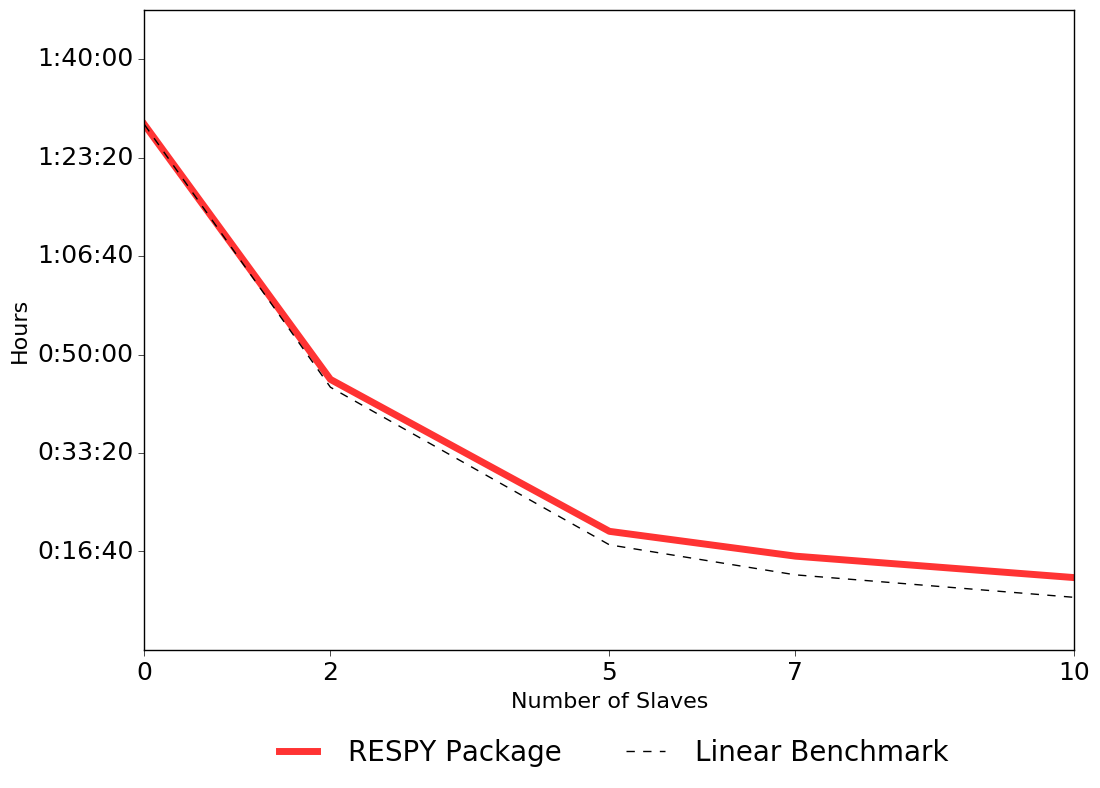
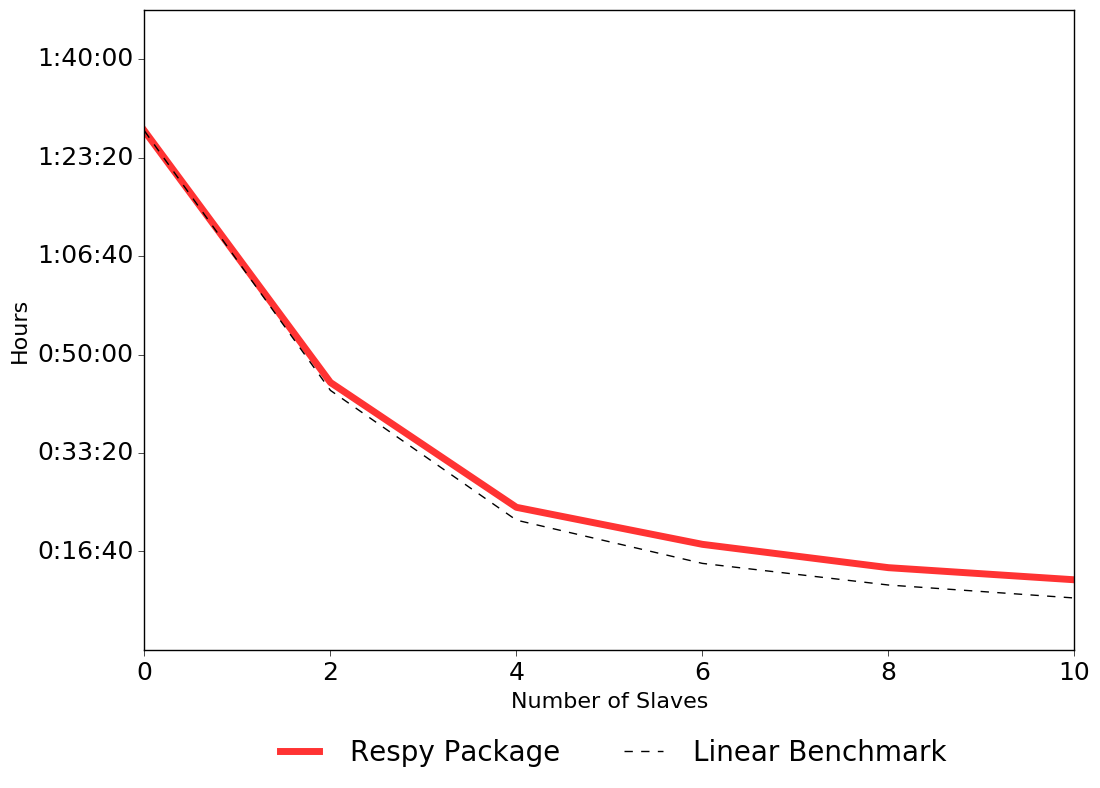
new scalability results

diff --git a/doc/graphs/_modules/auxiliary_scalability.py b/doc/graphs/_modules/auxiliary_scalability.py
@@ -41,7 +41,7 @@ def plot_scalability(ys, func_lin, grid_slaves):
     formatter = matplotlib.ticker.FuncFormatter(ylabel_formatting)
 
     ax = plt.figure(figsize=(12, 8)).add_subplot(111)
-    ax.plot(grid_slaves, ys, linewidth=5, label='RESPY Package',
+    ax.plot(grid_slaves, ys, linewidth=5, label='Respy Package',
             color='red', alpha=0.8)
 
     ax.plot(grid_slaves, func_lin, linewidth=1, linestyle='--',
@@ -76,7 +76,7 @@ def get_durations():
             list_ = shlex.split(line)
             if not list_:
                 continue
-            if list_[0] == 'Slaves':
+            if list_[0] in ['Slaves', 'Benchmarking']:
                 continue
 
             # Create key for each of the data specifications.
@@ -86,7 +86,7 @@ def get_durations():
                 labels += [label]
 
             # Process the interesting lines.
-            if len(list_) == 6:
+            if len(list_) == 8:
                 num_slaves = int(list_[0])
                 grid_slaves += [num_slaves]
                 t = datetime.strptime(list_[5], "%H:%M:%S")
